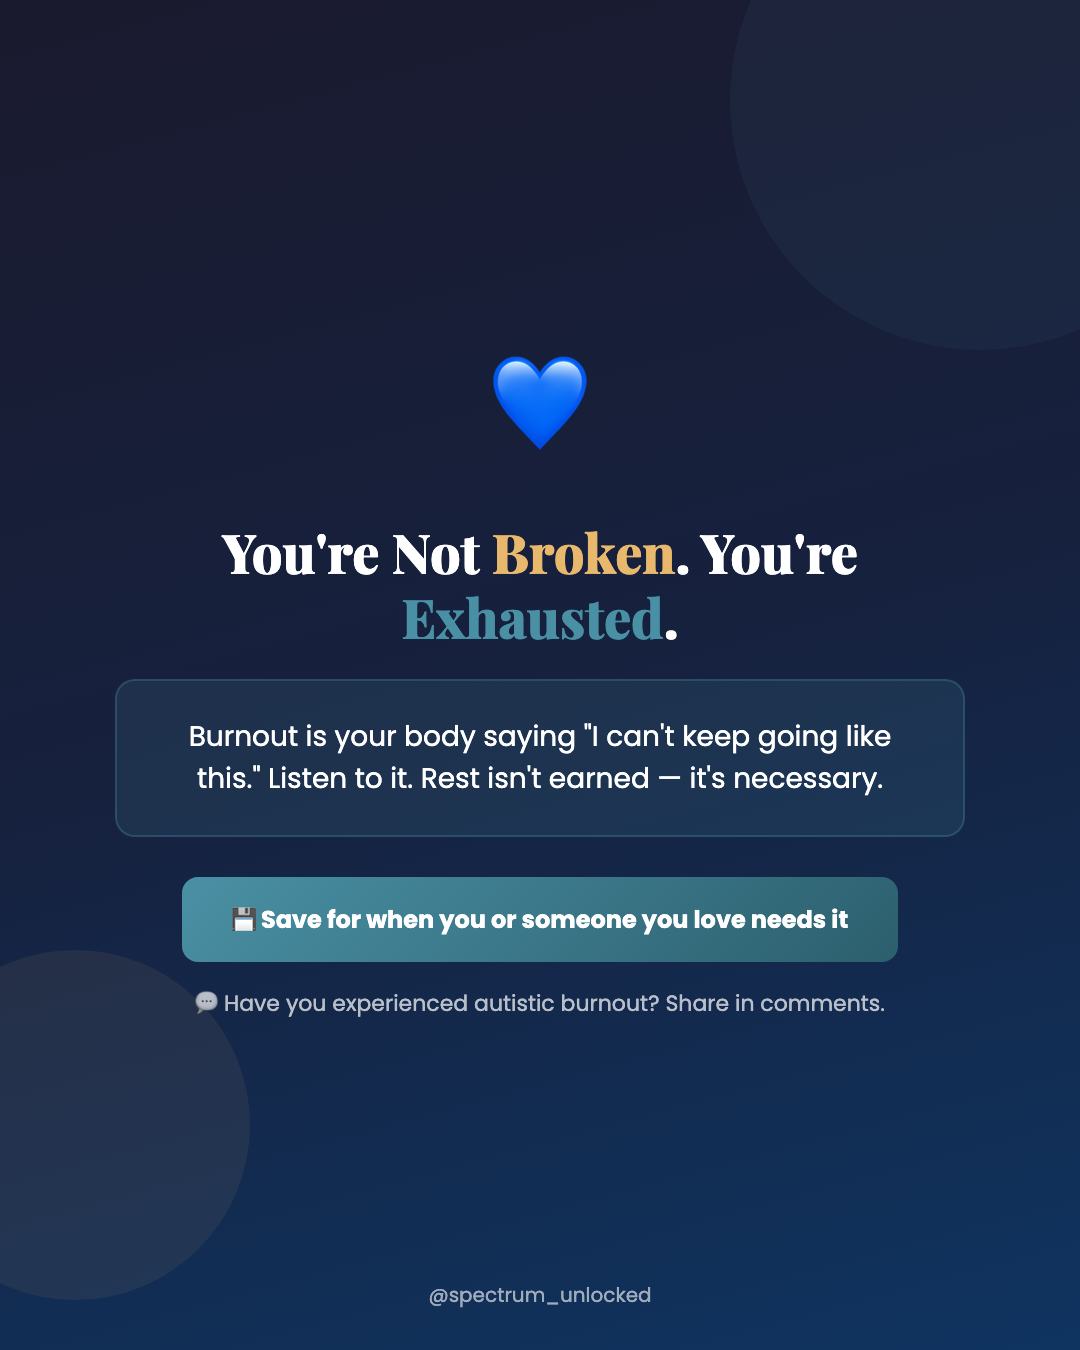
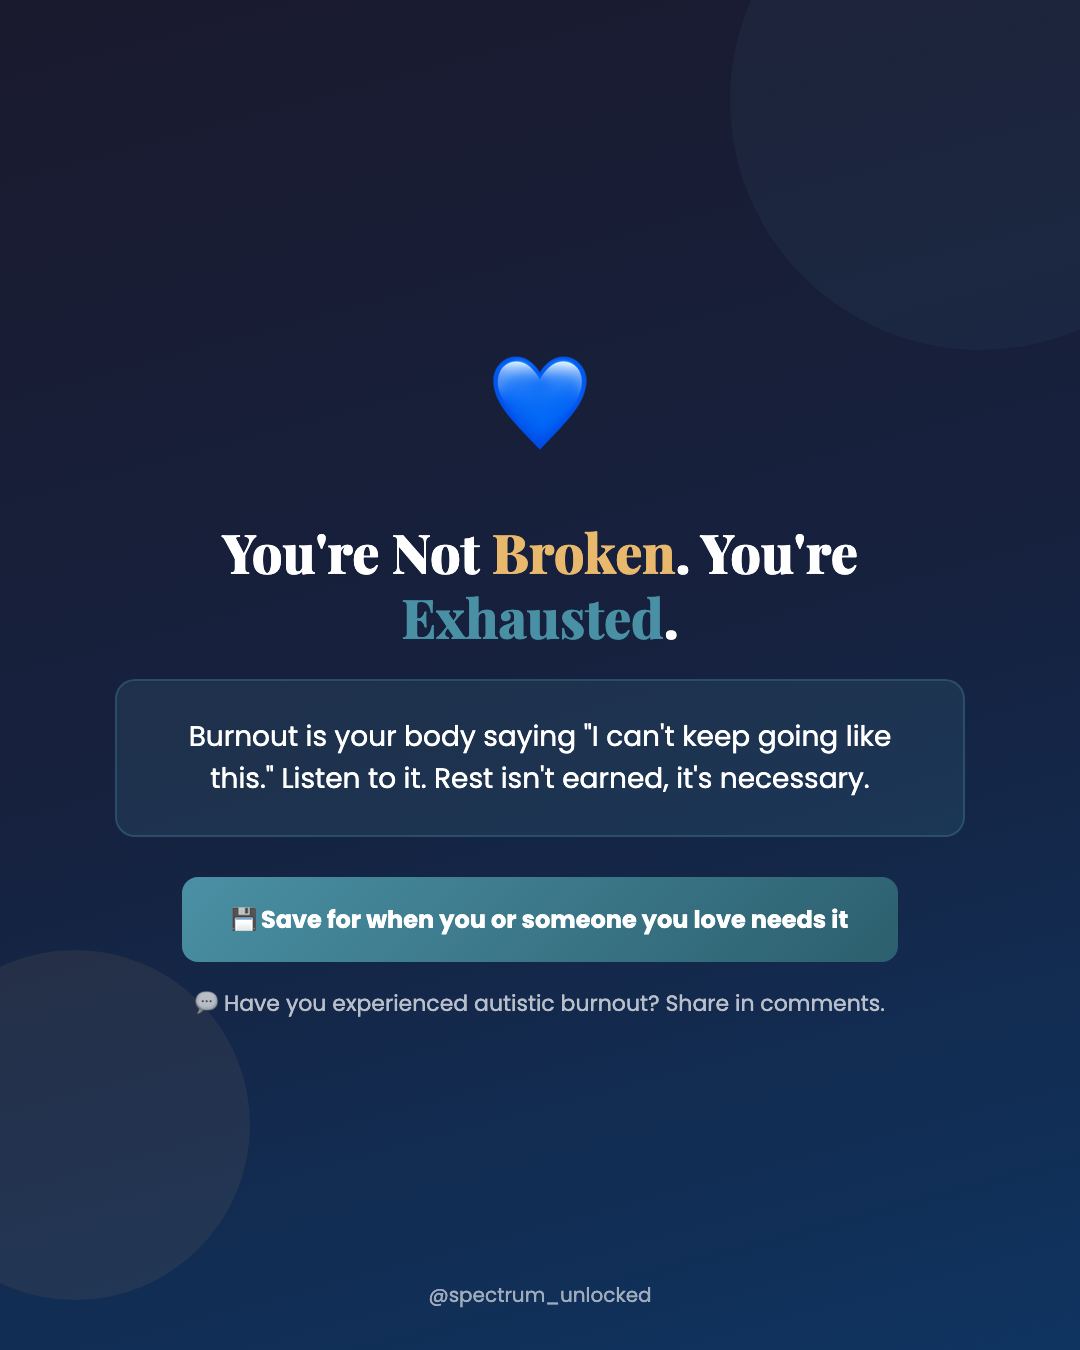
Fix: remove em dash from burnout CTA slide

Changed region(s): [[0.1833, 0.56, 0.825, 0.5911]]

diff --git a/content/day-06-burnout/slide-05-cta.html b/content/day-06-burnout/slide-05-cta.html
@@ -69,7 +69,7 @@
   
   <div class="message-box">
     <div class="message">
-      Burnout is your body saying "I can't keep going like this." Listen to it. Rest isn't earned — it's necessary.
+      Burnout is your body saying "I can't keep going like this." Listen to it. Rest isn't earned, it's necessary.
     </div>
   </div>
   
